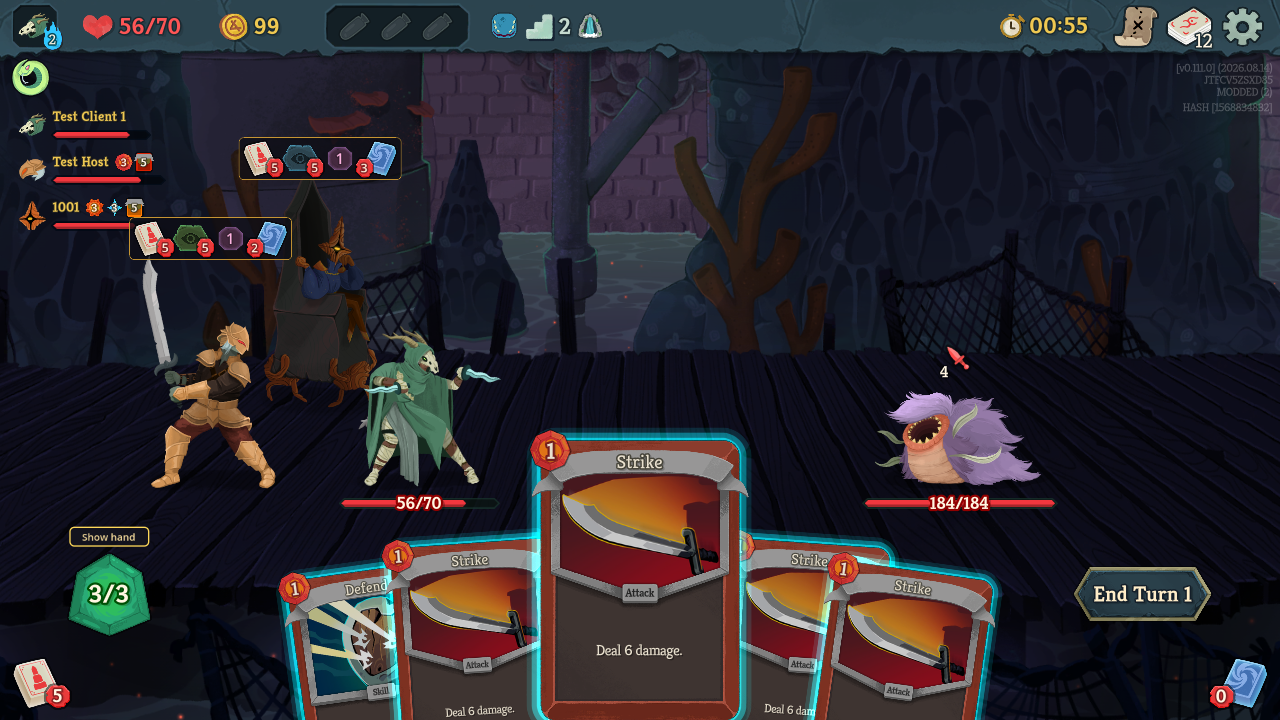
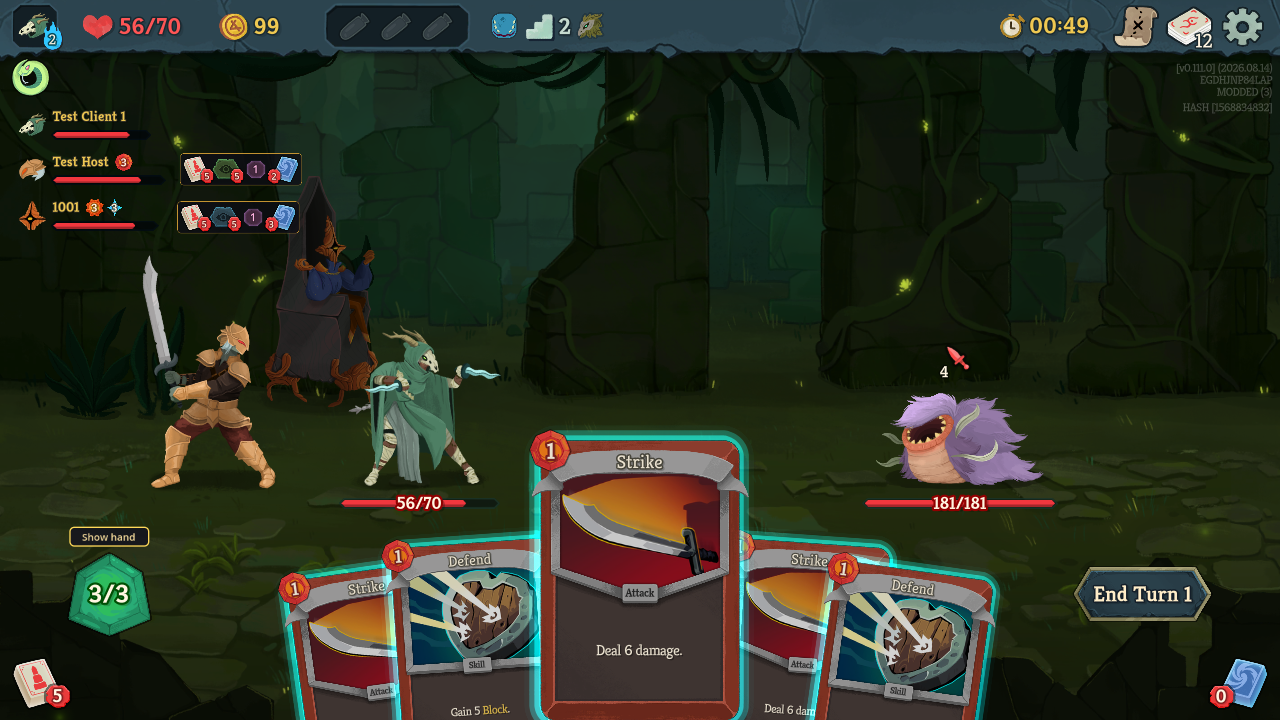
Strips next to each teammate's name, lit frame on hover (v0.4.0) (#9)
- Strips are anchored to the teammate's row in the player list (fixed to the
  UI) instead of following the characters; size 100% = about a name's height;
  drag offsets are now relative to the row (saved under a new key, so old
  character-relative offsets are dropped)
- Hovering a strip lights that teammate's frame in the player list, like
  hovering their character (NMultiplayerPlayerStateContainer.HighlightPlayer)
- The row's native hand-count icon is hidden while the strip shows it
- Showcase: the game saves its own screenshots (window focus doesn't
  matter); shots retaken; new checks in the fast suite
- Version 0.4.0, Workshop change note; includes the publish script (#8)

diff --git a/src/PileViewer.cs b/src/PileViewer.cs
@@ -11,7 +11,9 @@ using MegaCrit.Sts2.Core.Entities.Players;
 using MegaCrit.Sts2.Core.Helpers;
 using MegaCrit.Sts2.Core.Localization;
 using MegaCrit.Sts2.Core.Models;
+using MegaCrit.Sts2.Core.Nodes;
 using MegaCrit.Sts2.Core.Nodes.Combat;
+using MegaCrit.Sts2.Core.Nodes.Multiplayer;
 using MegaCrit.Sts2.Core.Nodes.Rooms;
 using MegaCrit.Sts2.Core.Nodes.Screens;
 using MegaCrit.Sts2.Core.Nodes.Screens.Capstones;
@@ -43,7 +45,19 @@ public static partial class PileViewer
 
     // Relative to the creature node's origin. BetterSpire2's incoming-damage label sits at (10, -320);
     // the strip's bottom-center goes above that.
-    private static readonly Vector2 AnchorOffset = new(0f, -350f);
+    // Gap between a player's name block in the top-left player list (its hitbox = the gold frame) and their strip.
+    private const float RowGap = 14f;
+
+    /// <summary>Strip scale at the "Size 100%" setting: about as tall as a player's name + health bar.</summary>
+    internal const float BaseScale = 0.75f;
+
+    private static float StripScale => Settings.Scale * BaseScale;
+
+    /// <summary>Rows whose native hand-count icon we hid (our strip shows the hand count instead).</summary>
+    private static readonly HashSet<NMultiplayerPlayerState> _handCountHidden = new();
+
+    /// <summary>Player whose row is lit because the mouse is over their strip (like hovering their character).</summary>
+    private static Player? _highlighted;
 
     // Launch with -pileviewerself to also show a strip for the local player (handy for solo testing).
     private static readonly bool IncludeSelf = OS.GetCmdlineArgs().Contains("-pileviewerself");
@@ -98,8 +112,58 @@ public static partial class PileViewer
         }
     }
 
+    /// <summary>
+    /// Mouse over a strip lights up that player's frame in the player list (NMultiplayerPlayerStateContainer
+    /// .HighlightPlayer — what hovering their character does), so it's clear whose piles these are.
+    /// </summary>
+    private static void UpdateHoverHighlight()
+    {
+        Vector2 mouse = HandViewer.LastMouse;
+        Player? hovered = _widgets.Values.FirstOrDefault(w => GodotObject.IsInstanceValid(w.Root) && w.Root.IsVisibleInTree()
+            && ScreenRect(w.Root).HasPoint(mouse))?.Player;
+        SetHighlight(hovered);
+    }
+
+    private static void SetHighlight(Player? player)
+    {
+        if (player == _highlighted) return;
+        var container = NRun.Instance?.GlobalUi?.MultiplayerPlayerContainer;
+        if (_highlighted != null) container?.UnhighlightPlayer(_highlighted);
+        _highlighted = player;
+        if (player != null) container?.HighlightPlayer(player);
+    }
+
+    /// <summary>
+    /// Hide the row's native hand-count icon while our strip shows that player's hand size. The game shows it at the
+    /// start of combat and hides it at the end, so it's only put back while combat is still running.
+    /// </summary>
+    private static void HideNativeHandCount(NMultiplayerPlayerState row, bool hide)
+    {
+        if (row.GetNodeOrNull<Control>("%CardCountContainer") is not Control count) return;
+        if (hide)
+        {
+            if (count.Visible) count.Visible = false;
+            _handCountHidden.Add(row);
+        }
+        else if (_handCountHidden.Remove(row) && CombatManager.Instance.IsInProgress)
+        {
+            count.Visible = true;
+        }
+    }
+
+    private static void RestoreNativeHandCounts()
+    {
+        foreach (var row in _handCountHidden.ToList())
+        {
+            if (GodotObject.IsInstanceValid(row)) HideNativeHandCount(row, false);
+        }
+        _handCountHidden.Clear();
+    }
+
     public static void Hide()
     {
+        SetHighlight(null);
+        RestoreNativeHandCounts();
         foreach (var widget in _widgets.Values) widget.Free();
         _widgets.Clear();
         HandViewer.Reset();
@@ -156,6 +220,8 @@ public static partial class PileViewer
         {
             foreach (var widget in _widgets.Values) widget.Free();
             _widgets.Clear();
+            SetHighlight(null);
+            RestoreNativeHandCounts();
             return;
         }
         bool includeSelf = Settings.ShowSelf || IncludeSelf;
@@ -176,15 +242,29 @@ public static partial class PileViewer
             }
             UpdateWidget(room, widget);
         }
+        UpdateHoverHighlight();
+    }
+
+    /// <summary>The player's row in the top-left player list (name, health, ...), which their strip sits next to.</summary>
+    internal static NMultiplayerPlayerState? PlayerRow(Player player) =>
+        NRun.Instance?.GlobalUi?.MultiplayerPlayerContainer?.GetChildren().OfType<NMultiplayerPlayerState>()
+            .FirstOrDefault(row => row.Player == player);
+
+    /// <summary>A control's rect on screen (it and the player list can be on different canvas layers).</summary>
+    internal static Rect2 ScreenRect(Control control)
+    {
+        Transform2D xf = control.GetGlobalTransformWithCanvas();
+        return new Rect2(xf.Origin, control.Size * xf.Scale);
     }
 
     private static void UpdateWidget(NCombatRoom room, Widget widget)
     {
-        NCreature? creatureNode = room.GetCreatureNode(widget.Player.Creature);
+        NMultiplayerPlayerState? row = PlayerRow(widget.Player);
         // Hide under full-screen overlays (pile screens, deck view, map, ...) — the strip would draw on top of them.
         bool overlayOpen = NCapstoneContainer.Instance?.InUse == true;
-        if (creatureNode == null || widget.Player.PlayerCombatState == null || overlayOpen)
+        if (row == null || !row.IsVisibleInTree() || widget.Player.PlayerCombatState == null || overlayOpen)
         {
+            if (row != null) HideNativeHandCount(row, false);
             widget.Root.Visible = false;
             widget.ClosePopup();
             return;
@@ -214,17 +294,24 @@ public static partial class PileViewer
             }
         }
 
+        // The strip's Hand slot shows the hand size, so the row's own hand-count icon is redundant.
+        HideNativeHandCount(row, Settings.HandViewerEnabled);
+
         // Settings from the F1 menu: size and background opacity.
-        if (widget.Root.Scale.X != Settings.Scale) widget.Root.Scale = new Vector2(Settings.Scale, Settings.Scale);
+        if (widget.Root.Scale.X != StripScale) widget.Root.Scale = new Vector2(StripScale, StripScale);
         if (widget.Style.BgColor.A != Settings.Opacity)
         {
             widget.Style.BgColor = new Color(StripBg, Settings.Opacity);
             widget.Style.BorderColor = new Color(StripBorder, Settings.Opacity);
         }
 
-        Vector2 size = widget.Root.Size * Settings.Scale;
-        widget.Root.GlobalPosition = creatureNode.GlobalPosition + AnchorOffset + Settings.GetOffset(widget.Player.NetId)
-            - new Vector2(size.X / 2f, size.Y);
+        // Next to the player's row in the player list (fixed to the UI, unlike the characters, which move), plus
+        // the player's drag offset.
+        Vector2 size = widget.Root.Size * StripScale;
+        Rect2 rowRect = ScreenRect(row.Hitbox);
+        Vector2 onScreen = new Vector2(rowRect.End.X + RowGap, rowRect.Position.Y + (rowRect.Size.Y - size.Y) / 2f)
+            + Settings.GetOffset(widget.Player.NetId);
+        widget.Root.GlobalPosition = widget.Root.GetCanvasTransform().AffineInverse() * onScreen;
 
         if (widget.Popup != null && widget.PopupLabel != null && GodotObject.IsInstanceValid(widget.Popup))
         {

diff --git a/src/AutoTest.cs b/src/AutoTest.cs
@@ -82,10 +82,17 @@ public static class AutoTest
             return;
         }
 
+        // Hover a teammate's strip so the shot also shows their lit frame in the player list.
+        if (PileViewer.StripAndRow(PileViewer.Teammates()[0].player.NetId) is { } placed) await Mouse(placed.Strip.GetCenter(), pressed: null);
+        await Wait(0.5);
+        if (PileViewer.PlayerRow(PileViewer.Teammates()[0].player) is { } row) Log("player row tree:\n" + PileViewer.DescribeTree(row, 0));
+        Shot(1);
         Log("SHOT 1");
         await Wait(6.0);
+        await Mouse(new Vector2(960f, 300f), pressed: null);
         SettingsMenu.Open();
         await Wait(1.0);
+        Shot(2);
         Log("SHOT 2");
         await Wait(6.0);
         SettingsMenu.Close();
@@ -99,6 +106,7 @@ public static class AutoTest
         }
         PileViewer.OpenTeammatePile(0, PileType.Discard);
         await Wait(1.5);
+        Shot(3);
         Log("SHOT 3 " + PileViewer.DescribeOpenView());
         await Wait(6.0);
         PileViewer.OpenTeammatePile(0, PileType.Discard); // close it
@@ -107,15 +115,17 @@ public static class AutoTest
         // Hand Viewer: the teammate's hand behind yours with one card raised, then your hand hidden with a closeup.
         HandViewer.View(PileViewer.Teammates()[0].player.NetId);
         await Wait(2.0);
-        if (HandViewer.CardCenter(1) is Vector2 peek) await Mouse(peek - new Vector2(0f, 140f), pressed: null);
+        if (HandViewer.PeekPoint(HandViewer.MiddleIndexOf(_ => true)) is Vector2 peek) await Mouse(peek, pressed: null);
         await Wait(1.5);
+        Shot(4);
         Log("SHOT 4 " + HandViewer.DescribeCloseup());
         await Wait(6.0);
         await Mouse(new Vector2(960f, 300f), pressed: null);
         HandViewer.ToggleHideOwnHand();
         await Wait(1.0);
-        if (HandViewer.CardCenter(2) is Vector2 target) await Mouse(target - new Vector2(0f, 120f), pressed: null);
+        if (HandViewer.CardCenter(HandViewer.MiddleIndexOf(_ => true)) is Vector2 target) await Mouse(target, pressed: null);
         await Wait(1.5);
+        Shot(5);
         Log("SHOT 5 " + HandViewer.DescribeFocus());
         await Wait(6.0);
         HandViewer.ToggleHideOwnHand();
@@ -125,15 +135,16 @@ public static class AutoTest
         // Aim one of their attacks at the enemy: the game's arrow, numbers from their state.
         int attack = HandViewer.MiddleIndexOf(c => c.TargetType == TargetType.AnyEnemy);
         Creature? enemy = CombatManager.Instance.DebugOnlyGetState()?.HittableEnemies.FirstOrDefault();
-        if (attack >= 0 && enemy != null && HandViewer.CardCenter(attack) is Vector2 card)
+        if (attack >= 0 && enemy != null && HandViewer.PeekPoint(attack) is Vector2 card)
         {
-            Vector2 from = card - new Vector2(0f, 155f); // high in the visible strip, clear of your own cards
+            Vector2 from = card;
             Vector2 to = NCombatRoom.Instance!.GetCreatureNode(enemy)!.Hitbox.GetGlobalRect().GetCenter();
             await Mouse(from, pressed: null);
             await Wait(0.8);
             await Mouse(from, pressed: true);
             for (int i = 1; i <= 8; i++) await Mouse(from.Lerp(to, i / 8f), pressed: null);
             await Wait(1.0);
+            Shot(6);
             Log("SHOT 6 " + HandViewer.DescribeDragCard());
             await Wait(6.0);
             await RightClick(to);
@@ -278,6 +289,16 @@ public static class AutoTest
         await Wait(5.0);
         Log($"mixed: still in combat after everything: {CombatManager.Instance.IsInProgress}");
         Log("done");
+    }
+
+    /// <summary>Showcase: the game saves its own frame (no window capture, so window focus doesn't matter).</summary>
+    private static void Shot(int n)
+    {
+        string dir = System.IO.Path.Combine(OS.GetUserDataDir(), "showcase");
+        System.IO.Directory.CreateDirectory(dir);
+        Image image = ((SceneTree)Engine.GetMainLoop()).Root.GetTexture().GetImage();
+        image.SavePng(System.IO.Path.Combine(dir, $"shot_{n}.png"));
+        Log($"saved shot {n} ({image.GetWidth()}x{image.GetHeight()})");
     }
 
     private static async Task RightClick(Vector2 viewportPos)
@@ -505,7 +526,21 @@ public static class AutoTest
         Vector2 away = new(960f, 300f);
 
         // ---- Strips ----
-        Check("a strip over every teammate", teammates.All(t => PileViewer.StripCounts(t.player.NetId) != null), PileViewer.DescribeState());
+        Check("a strip for every teammate", teammates.All(t => PileViewer.StripCounts(t.player.NetId) != null), PileViewer.DescribeState());
+        if (PileViewer.StripAndRow(MutatorId) is { } placed)
+        {
+            Check("strip sits next to the teammate's name", placed.Strip.Position.X >= placed.Row.End.X
+                && Mathf.Abs(placed.Strip.GetCenter().Y - placed.Row.GetCenter().Y) < 12f && placed.Strip.Position.X - placed.Row.End.X < 20f
+                && placed.Strip.Size.Y <= placed.Row.Size.Y,
+                $"strip {placed.Strip}, row {placed.Row}");
+            await Mouse(placed.Strip.GetCenter(), null);
+            await Wait(0.1);
+            Check("hovering a strip lights that teammate's frame", PileViewer.RowHighlighted(MutatorId));
+            Check("the name's own hand-count icon is hidden (the strip shows it)", !PileViewer.NativeHandCountShown(MutatorId));
+            await Mouse(new Vector2(960f, 300f), null);
+            await Wait(0.1);
+            Check("…and it goes out when the mouse leaves", !PileViewer.RowHighlighted(MutatorId));
+        }
         await WaitUntil(() => PileType.Exhaust.GetPile(mutator).Cards.Count > 0, 15);
         await Wait(0.2);
         string expected = string.Join("/", PileViewer.StripSlots.Select(p => p.GetPile(mutator).Cards.Count));
@@ -535,7 +570,7 @@ public static class AutoTest
         SettingsMenu.Open();
         SettingsMenu.ScaleSlider!.Value = 150;
         await Wait(0.1);
-        Check("size slider scales the strips", Mathf.IsEqualApprox(PileViewer.StripScale(MutatorId).X, 1.5f), $"{PileViewer.StripScale(MutatorId)}");
+        Check("size slider scales the strips", Mathf.IsEqualApprox(PileViewer.StripScaleOf(MutatorId).X, 1.5f * PileViewer.BaseScale), $"{PileViewer.StripScaleOf(MutatorId)}");
         SettingsMenu.ScaleSlider.Value = 100;
         SettingsMenu.ResetPositionButton!.EmitSignal(BaseButton.SignalName.Pressed);
         Check("reset strip positions", Settings.GetOffset(MutatorId) == Vector2.Zero);

diff --git a/src/Settings.cs b/src/Settings.cs
@@ -23,7 +23,9 @@ public static class Settings
         public float opacity { get; set; } = 0.75f;
         public bool showSelf { get; set; }
         public bool textList { get; set; }
-        public Dictionary<string, float[]>? stripOffsets { get; set; }
+        // Offsets from the default spot next to each player's name (v0.3.2+; the old "stripOffsets" were relative to
+        // the character and are ignored).
+        public Dictionary<string, float[]>? stripPositions { get; set; }
         public Dictionary<string, string>? hotkeys { get; set; }
         public bool handViewer { get; set; } = true;
         public bool hideHandButton { get; set; } = true;
@@ -75,8 +77,8 @@ public static class Settings
     public static float HandVisible = 0.20f;
 
     /// <summary>
-    /// Per-strip drag offsets relative to the default spot above the character, keyed by the player's NetId
-    /// (their Steam id online), so each teammate's strip keeps its own position across sessions.
+    /// Per-strip drag offsets from the default spot next to each player's name in the player list, keyed by the
+    /// player's NetId (their Steam id online), so each teammate's strip keeps its own position across sessions.
     /// </summary>
     private static readonly Dictionary<ulong, Vector2> _offsets = new();
 
@@ -128,7 +130,7 @@ public static class Settings
             ShowSelf = dto.showSelf;
             TextList = dto.textList;
             _offsets.Clear();
-            foreach (var (key, xy) in dto.stripOffsets ?? new Dictionary<string, float[]>())
+            foreach (var (key, xy) in dto.stripPositions ?? new Dictionary<string, float[]>())
             {
                 if (ulong.TryParse(key, out ulong netId) && xy is { Length: 2 }) _offsets[netId] = new Vector2(xy[0], xy[1]);
             }
@@ -159,7 +161,7 @@ public static class Settings
                 opacity = Opacity,
                 showSelf = ShowSelf,
                 textList = TextList,
-                stripOffsets = _offsets.ToDictionary(kv => kv.Key.ToString(), kv => new[] { kv.Value.X, kv.Value.Y }),
+                stripPositions = _offsets.ToDictionary(kv => kv.Key.ToString(), kv => new[] { kv.Value.X, kv.Value.Y }),
                 hotkeys = Hotkeys.Serialize(),
                 handViewer = HandViewerEnabled,
                 hideHandButton = HideHandButtonEnabled,

diff --git a/src/PileViewer.Testing.cs b/src/PileViewer.Testing.cs
@@ -27,7 +27,23 @@ public static partial class PileViewer
     internal static string[]? StripCounts(ulong netId) =>
         _widgets.TryGetValue(netId, out var w) && GodotObject.IsInstanceValid(w.Root) && w.Root.Visible ? w.Counts.Select(c => c.Text).ToArray() : null;
 
-    internal static Vector2 StripScale(ulong netId) => _widgets.TryGetValue(netId, out var w) ? w.Root.Scale : Vector2.Zero;
+    /// <summary>On-screen rects of a player's strip and their name block (row hitbox = gold frame) in the player list (auto-test).</summary>
+    internal static (Rect2 Strip, Rect2 Row)? StripAndRow(ulong netId)
+    {
+        if (!_widgets.TryGetValue(netId, out var w) || !GodotObject.IsInstanceValid(w.Root) || PlayerRow(w.Player) is not { } row) return null;
+        return (ScreenRect(w.Root), ScreenRect(row.Hitbox));
+    }
+
+    /// <summary>Whether a player's row in the player list is lit (its gold frame) (auto-test).</summary>
+    internal static bool RowHighlighted(ulong netId) =>
+        _widgets.TryGetValue(netId, out var w) && PlayerRow(w.Player) is { } row
+        && Traverse.Create(row).Field<bool>("_isHighlighted").Value;
+
+    /// <summary>Whether the row's native hand-count icon is showing (auto-test).</summary>
+    internal static bool NativeHandCountShown(ulong netId) =>
+        _widgets.TryGetValue(netId, out var w) && PlayerRow(w.Player)?.GetNodeOrNull<Control>("%CardCountContainer") is { } c && c.Visible;
+
+    internal static Vector2 StripScaleOf(ulong netId) => _widgets.TryGetValue(netId, out var w) ? w.Root.Scale : Vector2.Zero;
 
     /// <summary>One-line summary of every strip, for logs and the auto-test.</summary>
     internal static string DescribeState()

diff --git a/README.md b/README.md
@@ -4,9 +4,9 @@ Slay the Spire 2 co-op mod: see your teammates' draw, exhaust, and discard piles
 
 Cosmetic only: teammates don't need the mod, and nothing you do with it is sent to them.
 
-![Strips above each teammate](assets/strips.png)
+![Strips next to each teammate's name](assets/strips.png)
 
-- Each teammate gets a strip with live pile counts. **Click** a pile to open it.
+- Each teammate gets a strip next to their name with live pile counts. **Click** a pile to open it.
 - **Drag** a strip to move it.
 - Hotkeys: Shift+Z / V / C open teammate 1's draw / exhaust / discard pile (Ctrl+ for teammate 2,
   Ctrl+Shift+ for teammate 3). Rebind in F1, to keys or extra mouse buttons. The game's own hotkeys win.
